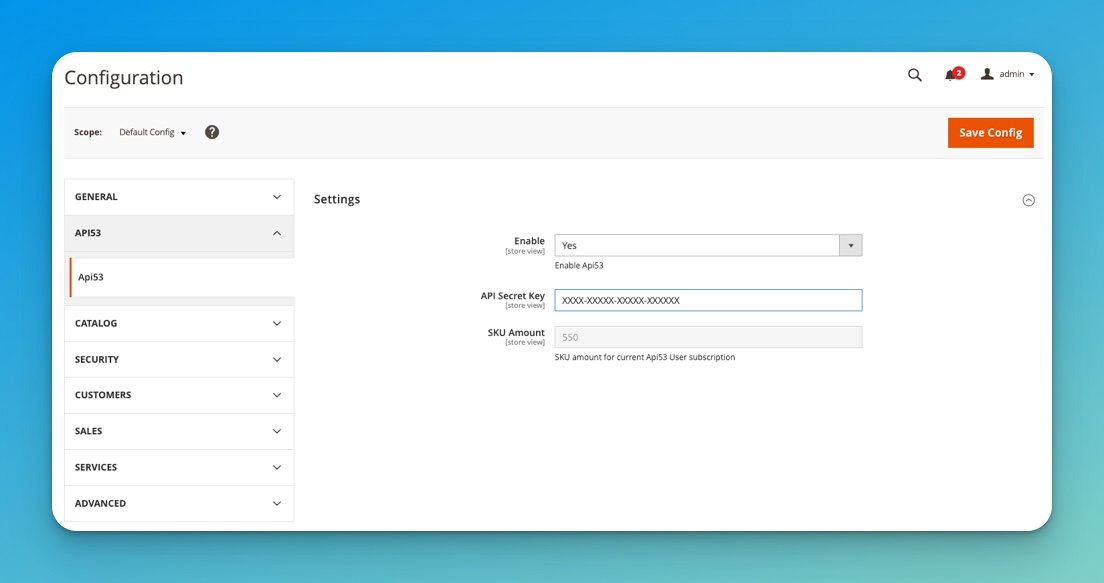
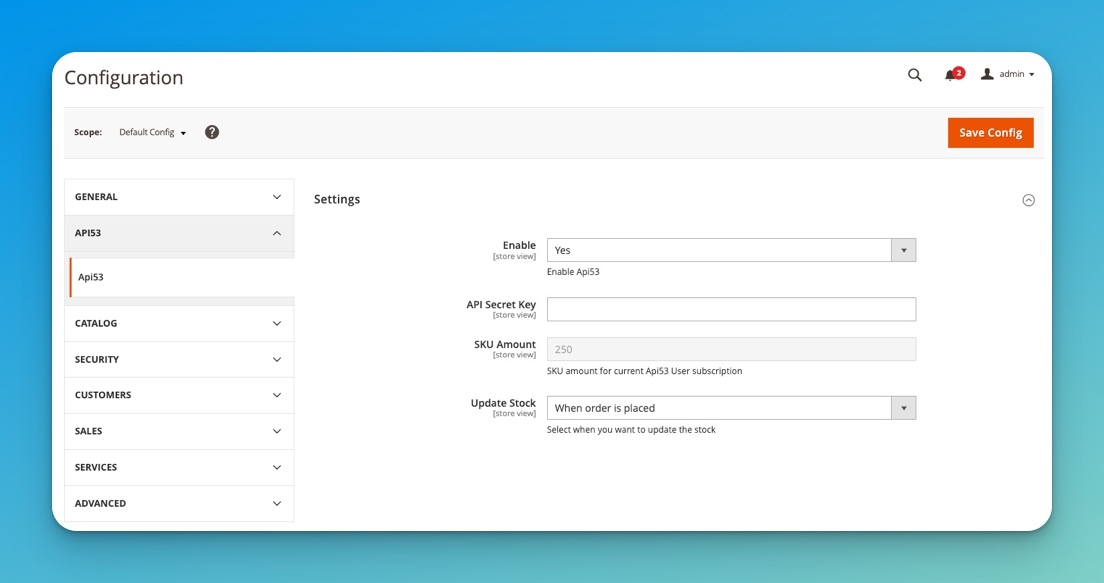
new feature Update Stock
New function that decides when to update the product catalog inside Api53.

Changed region(s): [[0.4312, 0.4014, 0.8315, 0.6484], [0.4312, 0.6792, 0.6467, 0.741], [0.8007, 0.6792, 0.8315, 0.741]]

diff --git a/Helper/Data.php b/Helper/Data.php
@@ -100,6 +100,15 @@ class Data extends \Magento\Framework\App\Helper\AbstractHelper
      * Get Max Allowed Weight
      * @return integer
      */    
+    public function getUpdateStock(){
+        return $this->scopeConfig->getValue('api53/settings/update_stock',
+                    ScopeInterface::SCOPE_STORE);
+    }   
+    
+    /*
+     * Get Max Allowed Weight
+     * @return integer
+     */    
     public function isCronEnabled(){
 
         $isEnabled = true;
@@ -137,80 +146,83 @@ class Data extends \Magento\Framework\App\Helper\AbstractHelper
 		$imageUrl  = null;
 		$categories = [];
 		$customAttributes = [];
+		$data = [];
 		
 		// product stock
 		$stockItem = $this->stockRegistry->getStockItemBySku($sku);
-		
-		// all categories
-		if ($this->allCategories == null){
-			$category_id = 2; //default category
-			$allCategories = [];
-			$category = $this->categoryRepository->get($category_id);
-			$level1Categories = $category->getChildrenCategories();
-			foreach ($level1Categories as $level1Category) {
-				$tempCategories = [];
-				$tempCategories[$level1Category->getId()] = $level1Category->getName();
-				$level2Categories = $level1Category->getChildrenCategories();
-				foreach ($level2Categories as $level2Category) {
-					$tempCategories[$level2Category->getId()] = $level2Category->getName();
-					$level3Categories = $level2Category->getChildrenCategories();
-					foreach ($level3Categories as $level3Category) {
-						$tempCategories[$level3Category->getId()] = $level3Category->getName();
+
+		if ($stockItem->getQty() - $qtyShipped > 0) {
+			// all categories
+			if ($this->allCategories == null){
+				$category_id = 2; //default category
+				$allCategories = [];
+				$category = $this->categoryRepository->get($category_id);
+				$level1Categories = $category->getChildrenCategories();
+				foreach ($level1Categories as $level1Category) {
+					$tempCategories = [];
+					$tempCategories[$level1Category->getId()] = $level1Category->getName();
+					$level2Categories = $level1Category->getChildrenCategories();
+					foreach ($level2Categories as $level2Category) {
+						$tempCategories[$level2Category->getId()] = $level2Category->getName();
+						$level3Categories = $level2Category->getChildrenCategories();
+						foreach ($level3Categories as $level3Category) {
+							$tempCategories[$level3Category->getId()] = $level3Category->getName();
+						}
+					}
+					$allCategories[] =  $tempCategories;
+				}
+				$this->allCategories = $allCategories;
+			}
+			
+			// selected categories
+			$categories = [];
+			$categoryIds = $product->getCategoryIds();
+			foreach ($categoryIds as $categoryId) {
+				$category = $this->categoryRepository->get($categoryId);
+				if ($parentCategories = $category->getParentCategories()) { 
+					foreach ($parentCategories as $parentCategory) {
+						$categories[$parentCategory->getId()] = $parentCategory->getName(); 
 					}
 				}
-				$allCategories[] =  $tempCategories;
 			}
-			$this->allCategories = $allCategories;
-		}
-		
-		// selected categories
-		$categories = [];
-		$categoryIds = $product->getCategoryIds();
-		foreach ($categoryIds as $categoryId) {
-			$category = $this->categoryRepository->get($categoryId);
-			if ($parentCategories = $category->getParentCategories()) { 
-				foreach ($parentCategories as $parentCategory) {
-					$categories[$parentCategory->getId()] = $parentCategory->getName(); 
+			
+			// final categories
+			$finalCategories = [];
+			foreach($this->allCategories as $allCategory) {
+				$finalCategory = array_values(array_intersect_key($allCategory, $categories));
+				if (count($finalCategory) > 0) {
+					$finalCategories[] = $finalCategory;
 				}
 			}
-		}
-		
-		// final categories
-		$finalCategories = [];
-		foreach($this->allCategories as $allCategory) {
-			$finalCategory = array_values(array_intersect_key($allCategory, $categories));
-			if (count($finalCategory) > 0) {
-				$finalCategories[] = $finalCategory;
-			}
-		}
 
-		// product custom attributes
-		$searchCriteria = $this->searchCriteriaBuilder->addFilter('is_user_defined', 1)->create();
-		$attributeRepository = $this->attributeRepository->getList(
-			\Magento\Catalog\Api\Data\ProductAttributeInterface::ENTITY_TYPE_CODE,
-			$searchCriteria
-		);
-		foreach ($attributeRepository->getItems() as $items) {
-		   $customAttributes[$items->getFrontendLabel()] = $this->productResource->getAttribute($items->getAttributeCode())->getFrontend()->getValue($product);
+			// product custom attributes
+			$searchCriteria = $this->searchCriteriaBuilder->addFilter('is_user_defined', 1)->create();
+			$attributeRepository = $this->attributeRepository->getList(
+				\Magento\Catalog\Api\Data\ProductAttributeInterface::ENTITY_TYPE_CODE,
+				$searchCriteria
+			);
+			foreach ($attributeRepository->getItems() as $items) {
+			$customAttributes[$items->getFrontendLabel()] = $this->productResource->getAttribute($items->getAttributeCode())->getFrontend()->getValue($product);
+			}
+			$customAttributes['short_description'] = $product->getShortDescription();
+					
+			$store = $this->storeManager->getStore();
+			$imageUrl = $store->getBaseUrl(\Magento\Framework\UrlInterface::URL_TYPE_MEDIA) . 'catalog/product' .$product->getData('image');
+			
+			// build data array
+			$data = [
+				"name" => $product->getName(),
+				"sku" => $product->getSku(),
+				"price" => $product->getPrice(),
+				"quantity" => ($stockItem->getQty() - $qtyShipped),
+				"brand" => $product->getAttributeText('manufacturer'),
+				"imageBase" => $imageUrl,
+				"weight" => $product->getWeight(),
+				"description" => $product->getDescription(),
+				"category" => json_encode($finalCategories),
+				"customAttributes" => json_encode($customAttributes)
+			];
 		}
-		$customAttributes['short_description'] = $product->getShortDescription();
-				
-		$store = $this->storeManager->getStore();
-		$imageUrl = $store->getBaseUrl(\Magento\Framework\UrlInterface::URL_TYPE_MEDIA) . 'catalog/product' .$product->getData('image');
-		
-		// build data array
-		$data = [
-			"name" => $product->getName(),
-			"sku" => $product->getSku(),
-			"price" => $product->getPrice(),
-			"quantity" => ($stockItem->getQty() - $qtyShipped),
-			"brand" => $product->getAttributeText('manufacturer'),
-			"imageBase" => $imageUrl,
-			"weight" => $product->getWeight(),
-			"description" => $product->getDescription(),
-			"category" => json_encode($finalCategories),
-			"customAttributes" => json_encode($customAttributes)
-		];
 		
 		return $data;
     }   

diff --git a/Observer/SalesOrderPlaceAfter.php b/Observer/SalesOrderPlaceAfter.php
@@ -6,7 +6,7 @@ use Magento\Framework\Event\ObserverInterface;
 use Api53\Api53\Helper\Data as Api53Helper;
 use Api53\Api53\Model\Api as Api53ModelApi;
 
-class SalesOrderShipmentAfter implements ObserverInterface
+class SalesOrderPlaceAfter implements ObserverInterface
 {
      protected $api53Helper;
      protected $api;
@@ -17,21 +17,18 @@ class SalesOrderShipmentAfter implements ObserverInterface
      ) {
          $this->api53Helper = $api53Helper;
          $this->api = $api;
-     }
+     } 
 
-    public function execute(\Magento\Framework\Event\Observer $observer)
+	 public function execute(\Magento\Framework\Event\Observer $observer)
     {
-		//if ($this->api53Helper->getUpdateStock() == '2') {
-			$api53StockOption = $this->api53Helper->getUpdateStock();
-			$shipment = $observer->getEvent()->getShipment();
-			/** @var \Magento\Sales\Model\Order $order */
-			$order = $shipment->getOrder();
+		if ($this->api53Helper->getUpdateStock() == '1') {
+	        $order= $observer->getEvent()->getData('order');
 			// Do some things
 			$orderItems = $order->getAllItems();
 			
 			$data = [];		
 			foreach ($orderItems as $item) {
-				$data[] = $this->api53Helper->getProductData($item->getProduct(), $item->getQtyShipped());
+				$data[] = $this->api53Helper->getProductData($item->getProduct(), $item->getQtyOrdered());
 			}
 	
 			if (count($data) > 0) {
@@ -40,6 +37,6 @@ class SalesOrderShipmentAfter implements ObserverInterface
 				$this->api->updateOrCreateProduct($data);
 			}
 			//throw new \Magento\Framework\Exception\LocalizedException(__(print_r($data, true)));
-		//}
+		}
 	}
 }

diff --git a/Model/Config/Source/UpdateStock.php b/Model/Config/Source/UpdateStock.php
@@ -1,0 +1,17 @@
+<?php
+/**
+ * Copyright © Magento, Inc. All rights reserved.
+ * See COPYING.txt for license details.
+ */
+namespace Api53\Api53\Model\Config\Source;
+
+class UpdateStock implements \Magento\Framework\Data\OptionSourceInterface
+{
+ public function toOptionArray()
+ {
+  return [
+    ['value' => '1', 'label' => __('When order is placed')],
+    ['value' => '2', 'label' => __('When order is shipped')],
+  ];
+ }
+}

diff --git a/Cron/Product.php b/Cron/Product.php
@@ -46,6 +46,7 @@ class Product
 			// Limit products 
 			$productCollection = $this->collectionFactory->create();		
 			$productCollection->addAttributeToSelect('*');
+			$productCollection->addAttributeToFilter('type_id', \Magento\Catalog\Model\Product\Type::TYPE_SIMPLE);
 			$productCollection->getSelect()->limit($skuAmount);
 	
 			// Build data array
